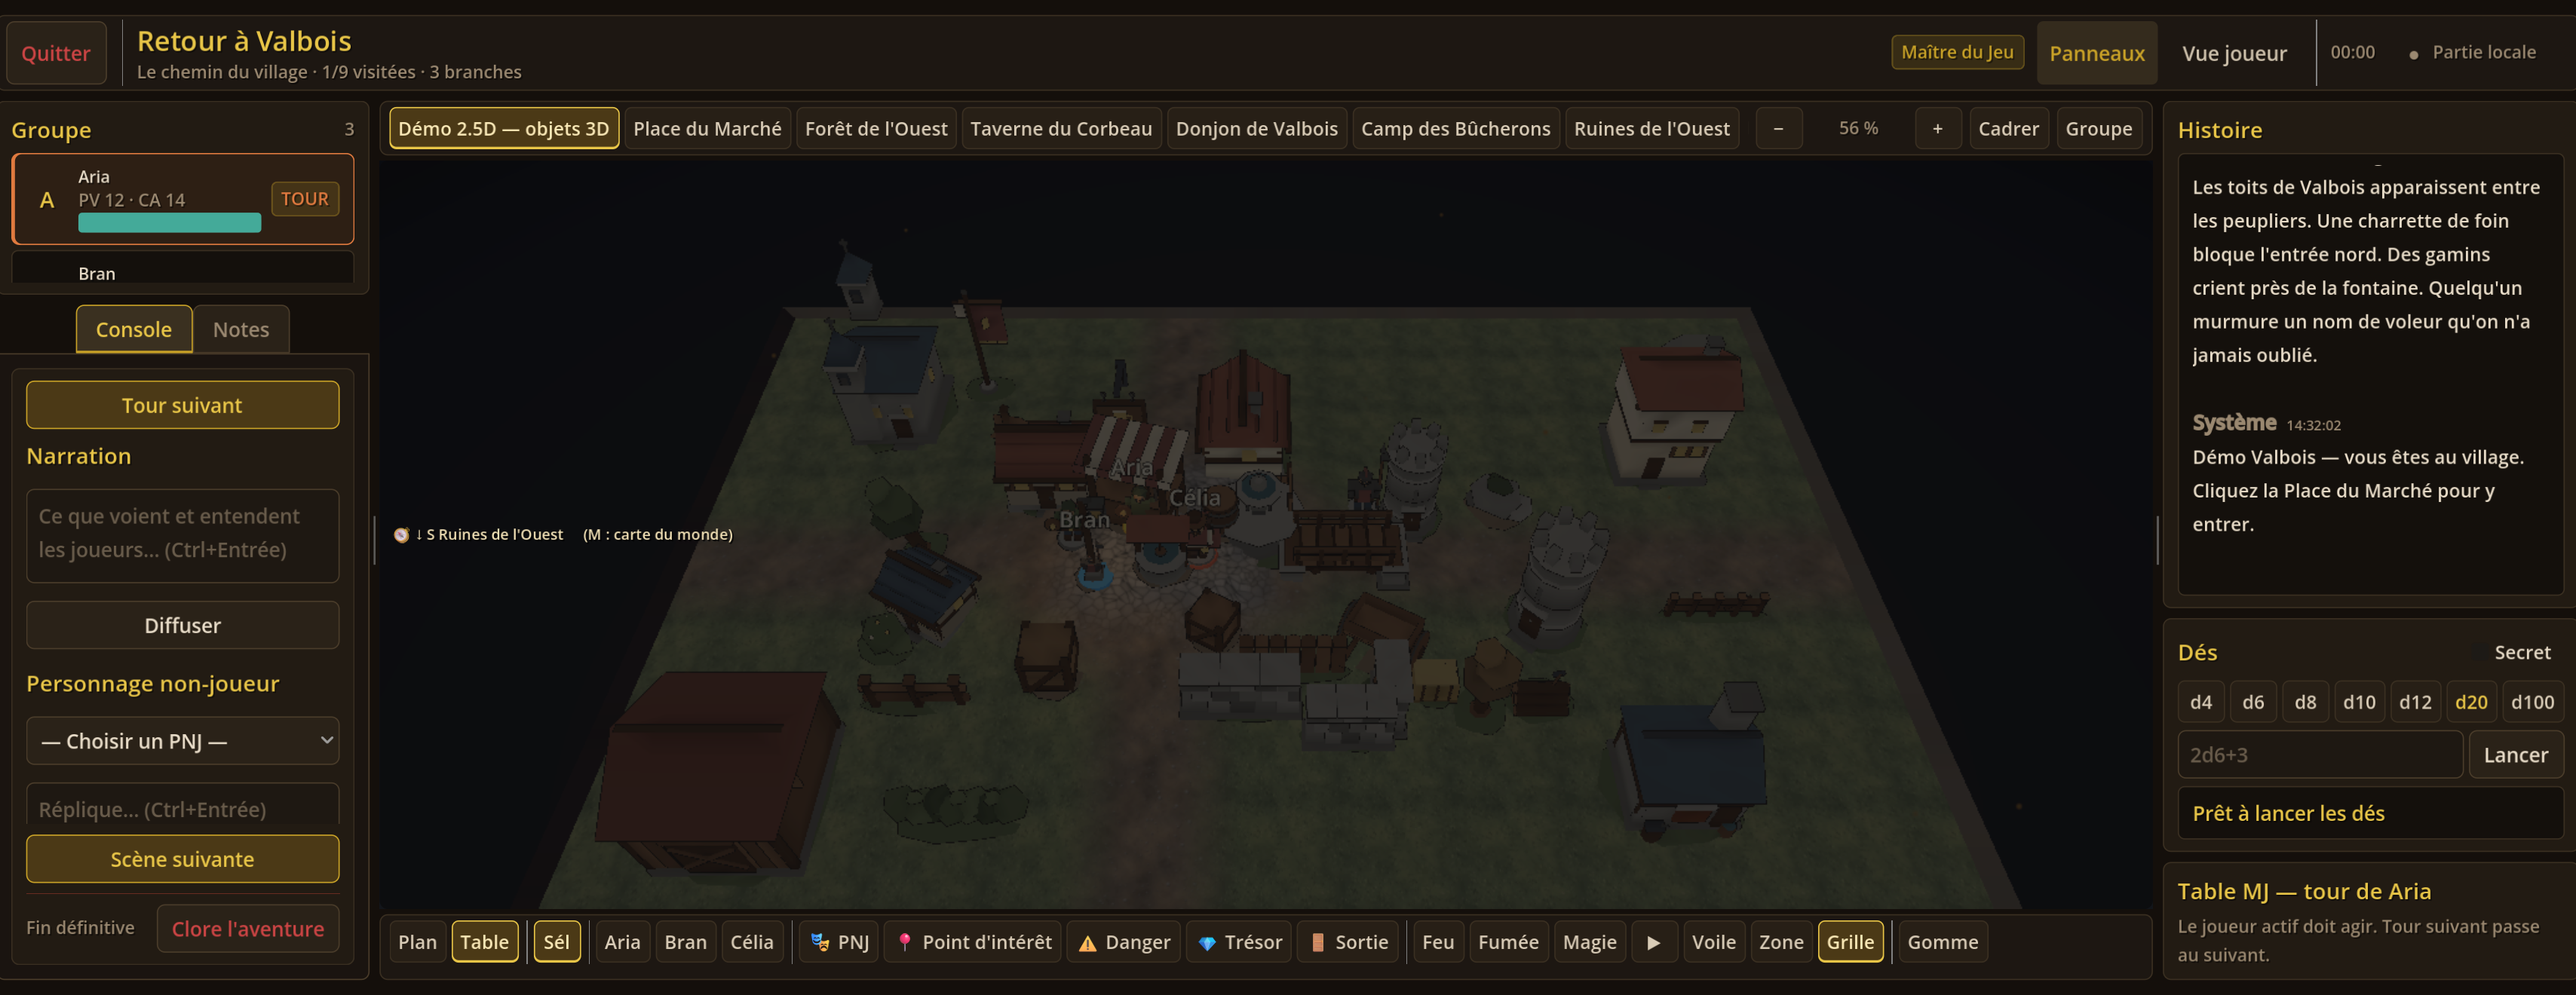
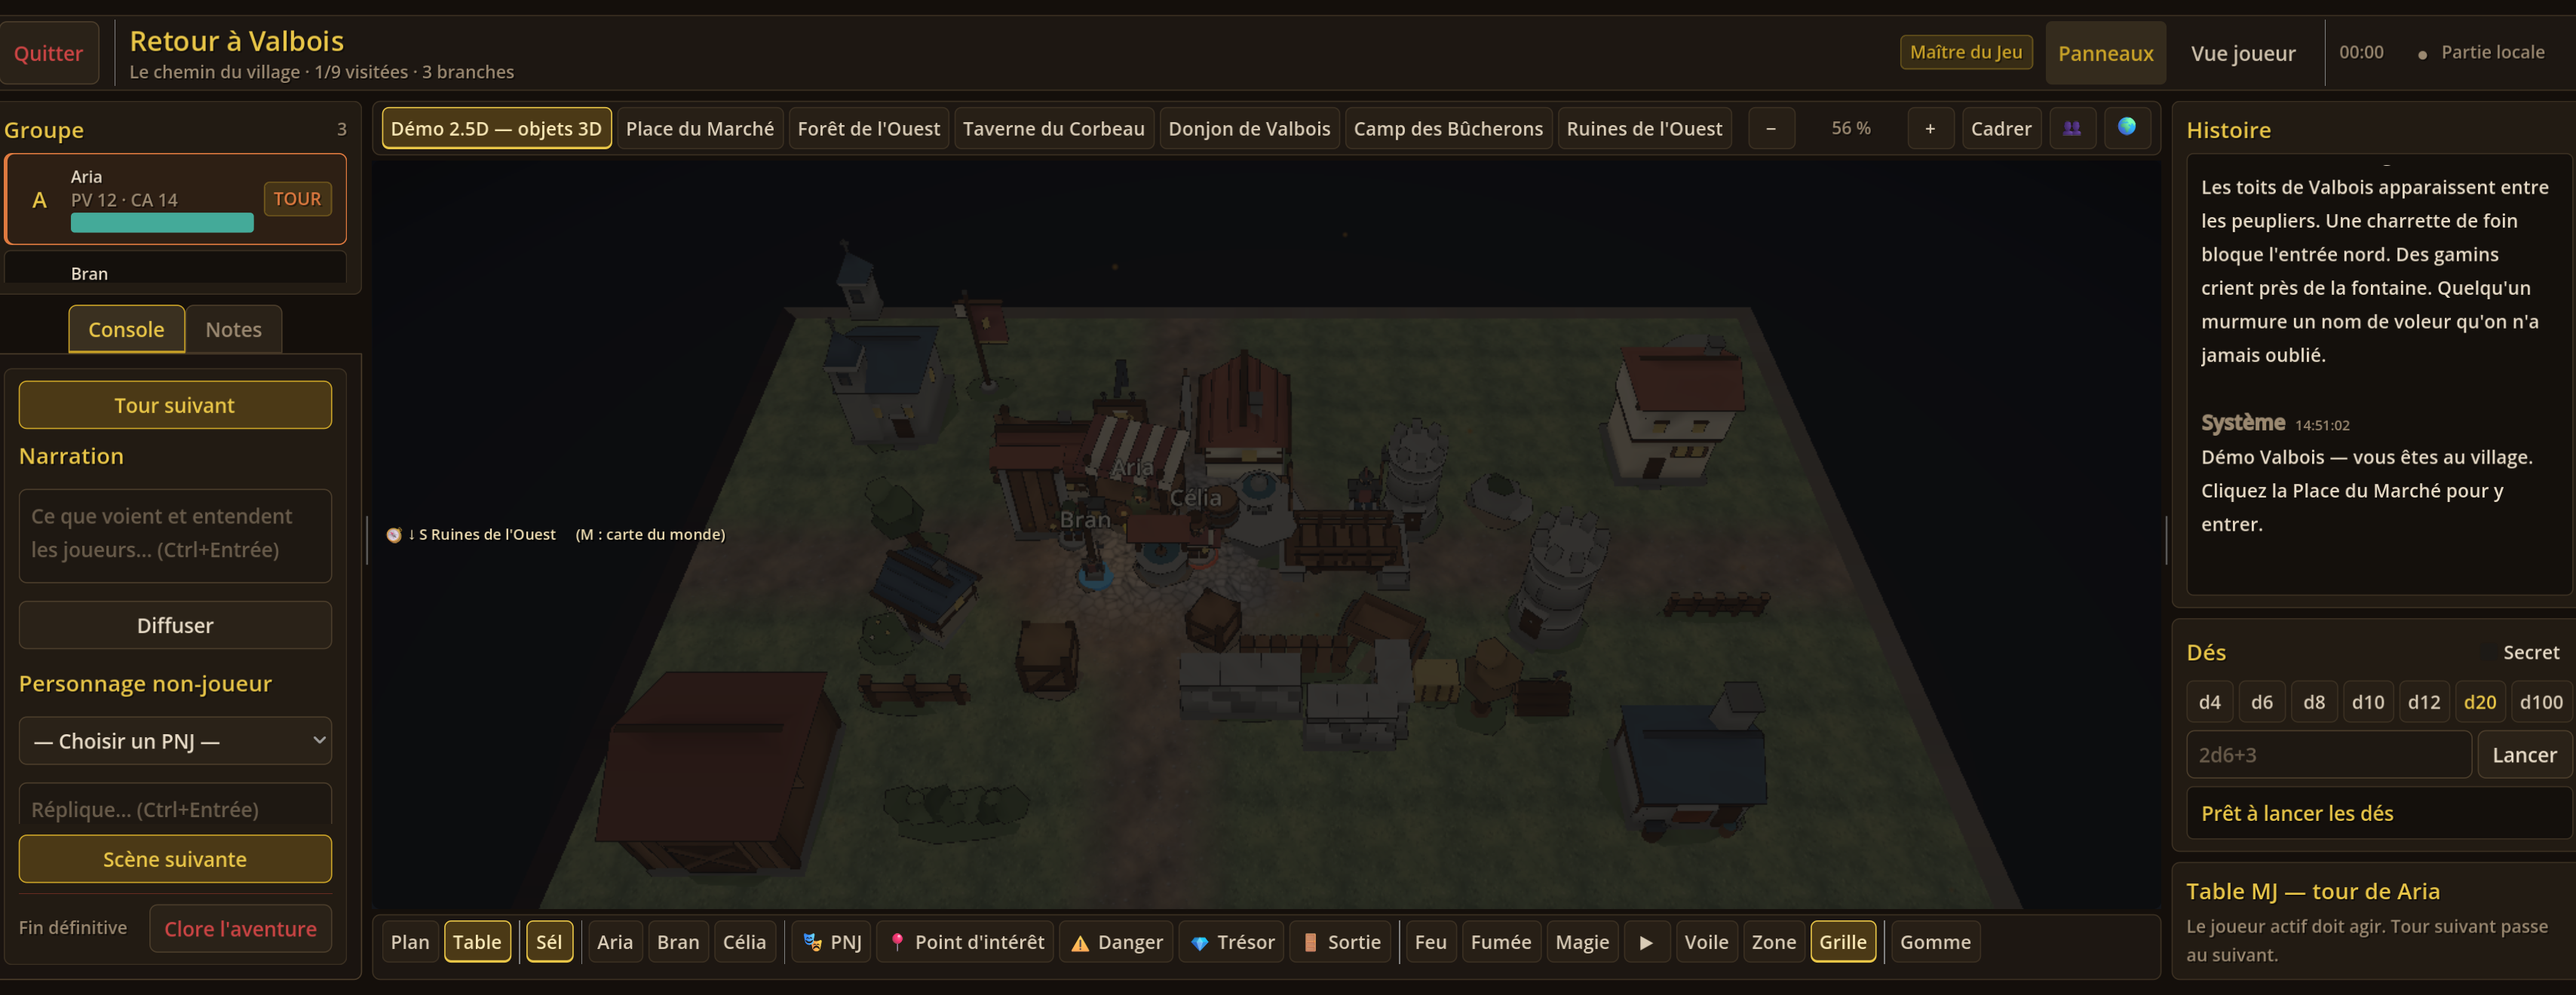
feat(session): boutons Groupe et Monde dans la barre de carte

diff --git a/docs/GUIDE_CARTE_25D.md b/docs/GUIDE_CARTE_25D.md
@@ -79,8 +79,8 @@ palette Valbois. Voir [BLENDER_PIPELINE.md](./BLENDER_PIPELINE.md).
 ## 5. Tester en session
 
 - Dans l'éditeur, **Monde → ▶ Tester** : la session démarre sur le monde courant.
-- Touche **M** : carte du monde (zones découvertes, aperçus des sols/bâtiments,
-  « Vous êtes ici », voyage rapide par clic).
+- Touche **M** (ou bouton **🌍** de la barre) : carte du monde (zones découvertes,
+  aperçus des sols/bâtiments, « Vous êtes ici », voyage rapide par clic).
 - **G** recentre la caméra sur le groupe (ou bouton **Groupe** dans la barre), **F** recadre toute la carte.
 - **1-9** bascule rapidement entre les cartes/onglets de zones.
 - Glisse un pion vers un **bord** de carte pour passer dans la zone voisine :
